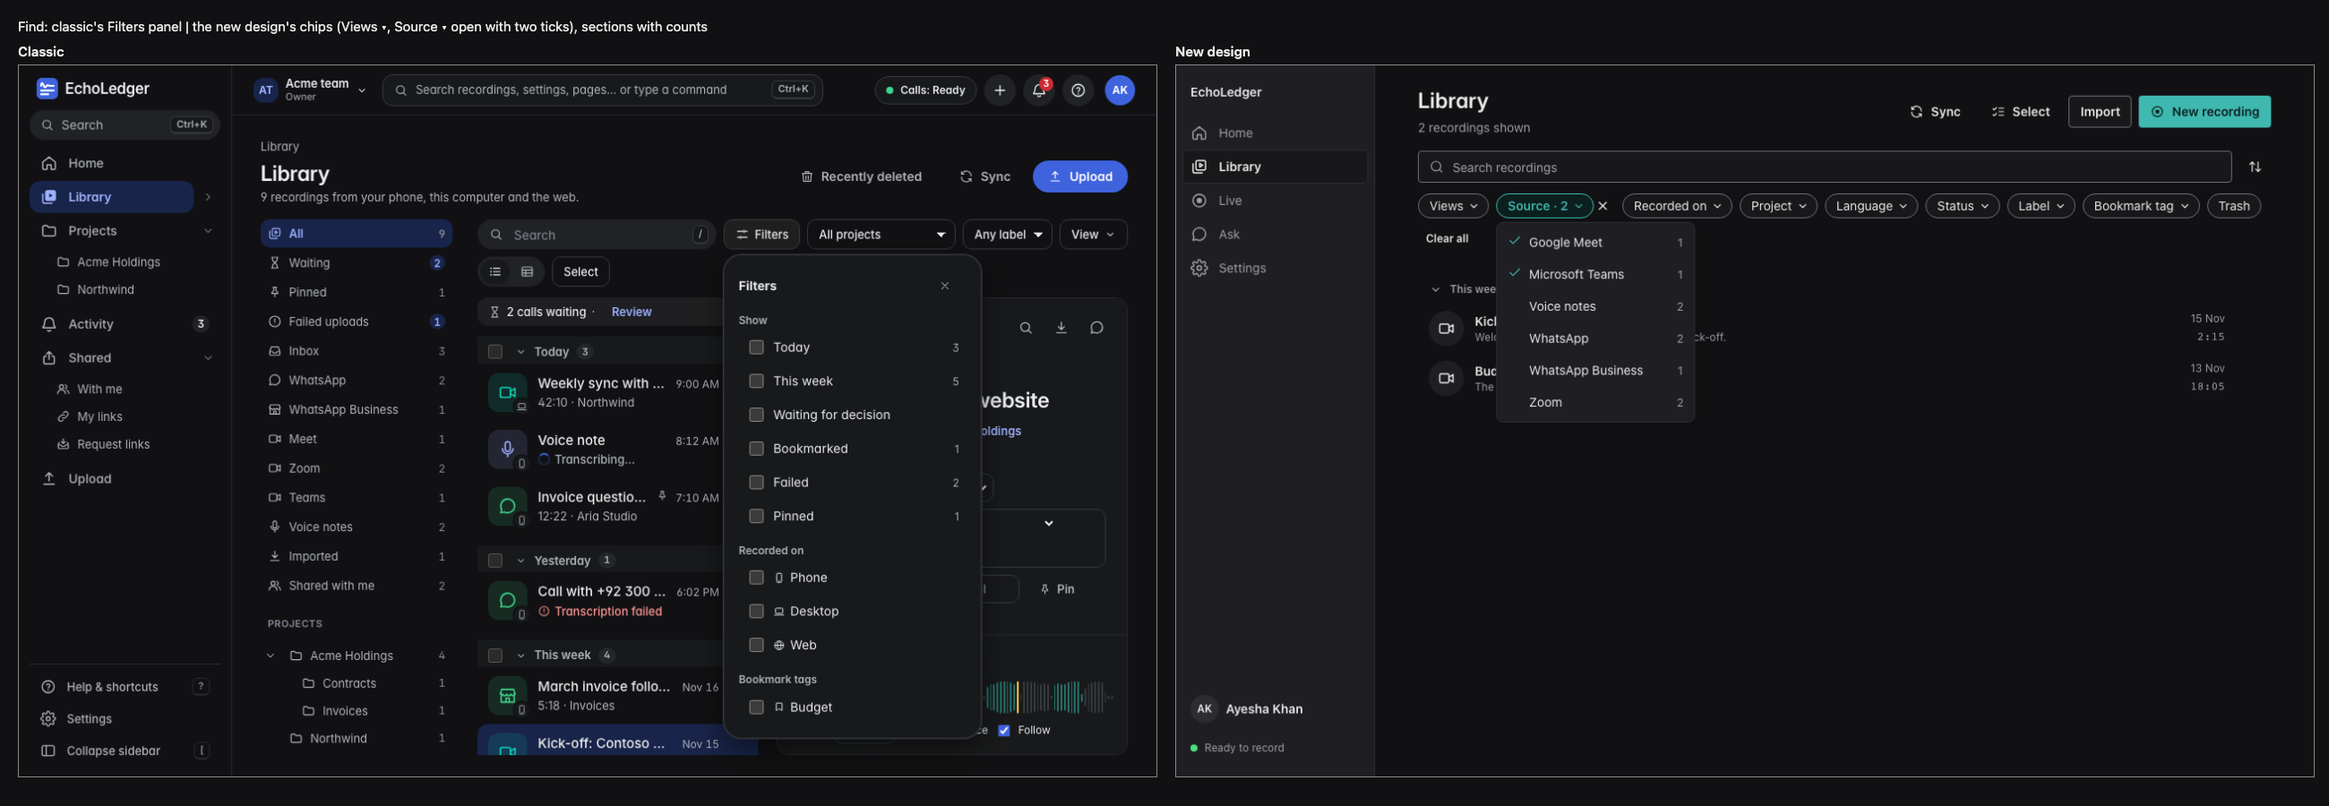
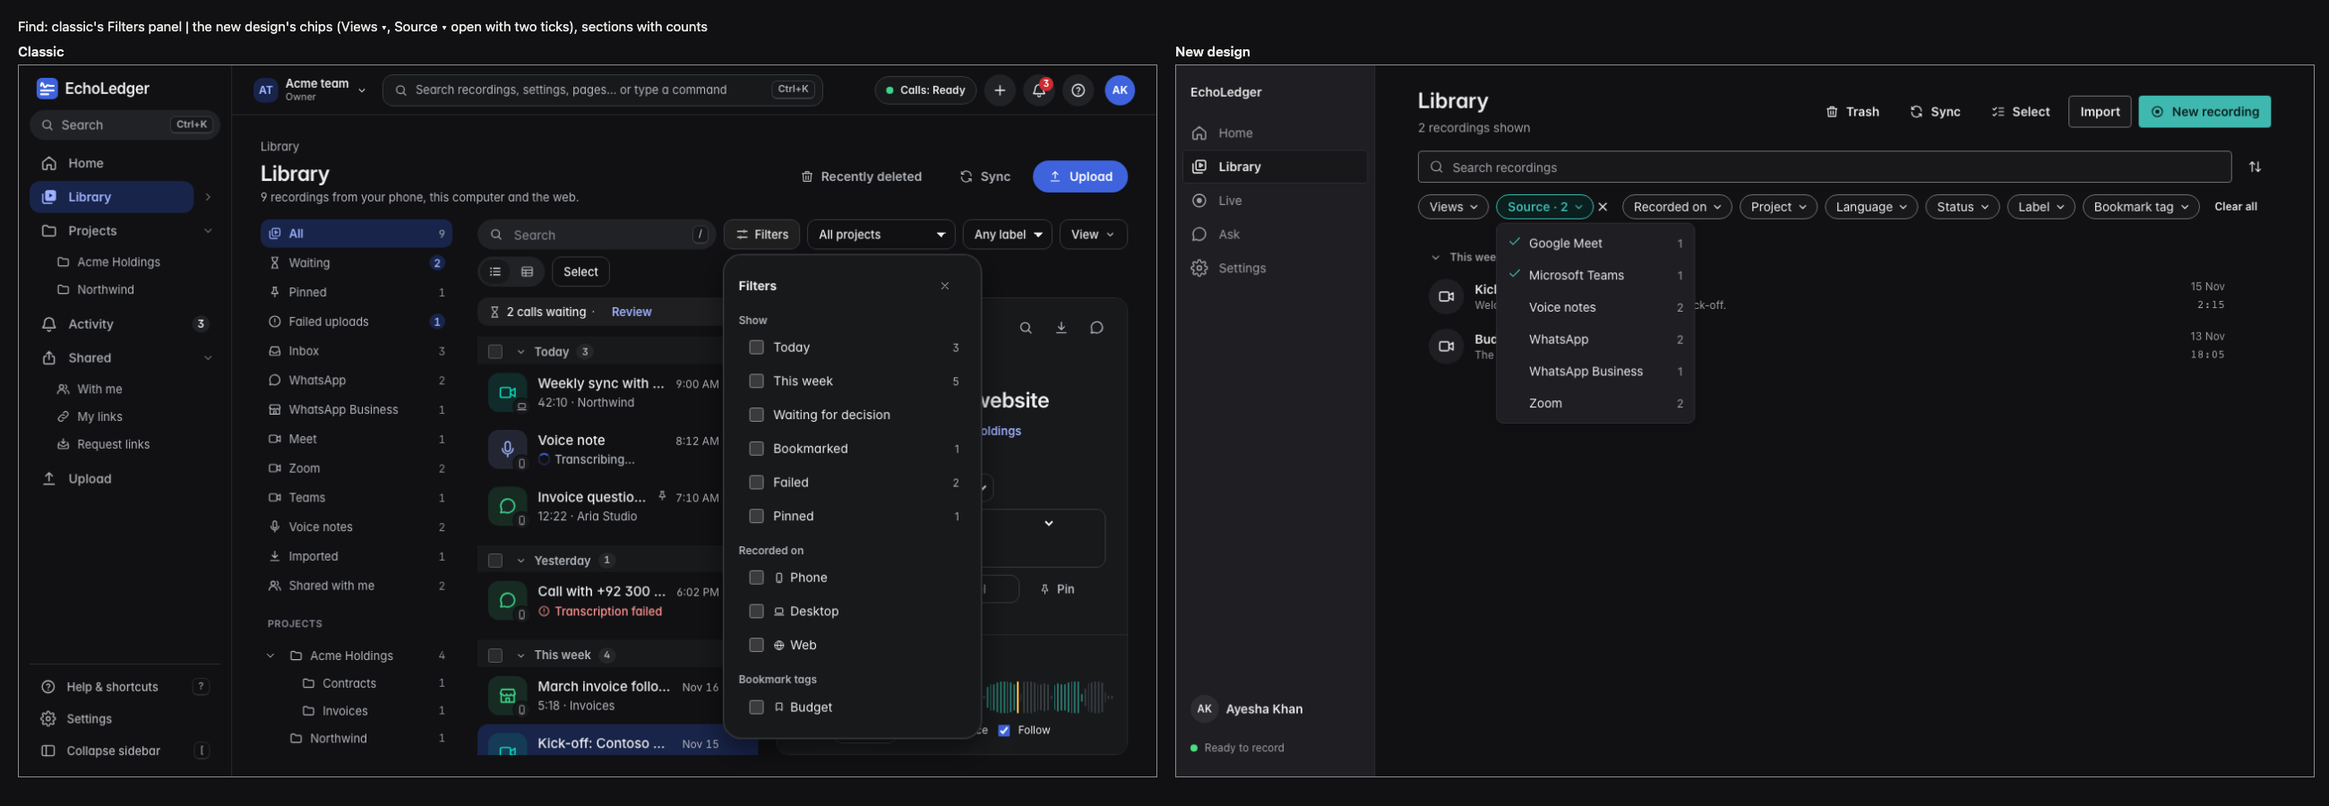
v2 Library find review fixes: selection and bulk actions reach only the rows on screen, labels match in any case, one source name, chip words from tick time, Trash in the header

diff --git a/desktop/src/v2/library/LibraryV2.tsx b/desktop/src/v2/library/LibraryV2.tsx
@@ -2,7 +2,7 @@
 // reloaded on library:updated), as WhatsApp-style rows with the saved views All, Today, Untranscribed and Trash. One
 // feedback system: the Toast, one at a time, with Undo after a delete. Selection mode (Select, a Cmd/Ctrl- or Shift-click,
 // Cmd/Ctrl+A or X) picks several; the row ⋮, a right-click and the selection bar's ⋮ are one menu (organise.tsx).
-import { useCallback, useEffect, useRef, useState, type KeyboardEvent as ReactKeyboardEvent, type MouseEvent as ReactMouseEvent } from "react";
+import { useCallback, useEffect, useMemo, useRef, useState, type KeyboardEvent as ReactKeyboardEvent, type MouseEvent as ReactMouseEvent } from "react";
 import { listen } from "@tauri-apps/api/event";
 import { api, errorMessage, type BinItem, type BulkAction, type LibraryItem } from "../../lib/ipc";
 import { formatDuration, rowDate } from "../../lib/format";
@@ -67,6 +67,8 @@ export function LibraryV2({ onImport, onRecord, openRequest, viewRequest }: Libr
     setOpenIdNow(id);
   }, []);
   const [filters, setFilters] = useState<Filters>({});
+  /** The words of each value when it was ticked, for a chip whose value this view doesn't offer. */
+  const knownValues = useRef<Record<string, string>>({});
   // Sort and group, remembered per view on this computer (classic's View menu).
   const [choice, setChoiceNow] = useState<LibraryViewChoice>(() => loadChoice("all"));
   const [collapsed, setCollapsed] = useState<ReadonlySet<string>>(new Set());
@@ -149,11 +151,16 @@ export function LibraryV2({ onImport, onRecord, openRequest, viewRequest }: Libr
     }
   };
   /** The list as drawn: the view, the filters, the search, then sorted and in sections. */
+  /**
+   * The list as drawn: the view, the filters, the search, then sorted and in sections. `rows` are the rows on screen
+   * (folded sections left out): the only ones selection, Select all, a Shift-range and Delete can reach. `matching`
+   * counts every recording that fits, folded or not.
+   */
   const listOf = (all: readonly LibraryItem[] | null) => {
-    if (!all || view === "trash") return { groups: [], rows: [] as LibraryItem[] };
+    if (!all || view === "trash") return { groups: [], rows: [] as LibraryItem[], matching: 0 };
     const inThis = applyFilters(all.filter((i) => inView(i, view as ListView)), filters);
     const groups = sections(searchItems(inThis, query), choice.group, choice.sort, opened, view !== "pinned");
-    return { groups, rows: groups.flatMap((g) => g.items) };
+    return { groups, rows: groups.filter((g) => !collapsed.has(g.key)).flatMap((g) => g.items), matching: groups.reduce((n, g) => n + g.items.length, 0) };
   };
   useEffect(() => {
     if (viewRequest) {
@@ -332,11 +339,22 @@ export function LibraryV2({ onImport, onRecord, openRequest, viewRequest }: Libr
 
   const open = openId ? items?.find((i) => i.id === openId) ?? null : null;
   const counts = items ? viewCounts(items) : null;
-  const { groups, rows: shown } = listOf(items);
+  const { groups, rows: shown, matching } = useMemo(() => listOf(items),
+    // eslint-disable-next-line react-hooks/exhaustive-deps
+    [items, view, filters, query, choice, opened, collapsed]);
   // What the filters offer: the recordings of this view before the filters, so a tick never hides its own choice.
-  const inThisView = items && view !== "trash" ? items.filter((i) => inView(i, view as ListView)) : [];
+  // Worked out once per change, for the chips' menus and their words alike.
+  const options = useMemo(() => {
+    const inThisView = items && view !== "trash" ? items.filter((i) => inView(i, view as ListView)) : [];
+    return Object.fromEntries(FILTER_KEYS.map((k) => [k, filterOptions(inThisView, k)])) as Record<FilterKey, ReturnType<typeof filterOptions>>;
+  }, [items, view]);
   const filtersOn = filterCount(filters);
-  const shownIds = shown.map((i) => i.id);
+  const shownIds = useMemo(() => shown.map((i) => i.id), [shown]);
+  // A row that leaves the screen (a filter, the search, a folded section, another view) leaves the selection too.
+  useEffect(() => {
+    const visible = new Set(shownIds);
+    setPicked((p) => ([...p].every((id) => visible.has(id)) ? p : new Set([...p].filter((id) => visible.has(id)))));
+  }, [shownIds]);
   const pickedIds = shownIds.filter((id) => picked.has(id));
   const allPicked = shownIds.length > 0 && pickedIds.length === shownIds.length;
   shownCount.current = shownIds.length;
@@ -473,9 +491,12 @@ export function LibraryV2({ onImport, onRecord, openRequest, viewRequest }: Libr
   const viewMenu: MenuItem[] = [
     ...LIST_VIEWS.map((v) => ({ label: VIEW_NAMES[v], checked: view === v, radio: true, count: counts?.[v], onPick: () => setView(v) })),
   ];
-  const filterMenu = (key: FilterKey): MenuItem[] => filterOptions(inThisView, key).map((o) => ({
+  const filterMenu = (key: FilterKey): MenuItem[] => options[key].map((o) => ({
     label: o.label, checked: (filters[key] ?? []).includes(o.value), count: o.count, keepOpen: true,
-    onPick: () => setFilters((f) => toggleFilter(f, key, o.value)),
+    onPick: () => {
+      knownValues.current[`${key}:${o.value}`] = o.label;
+      setFilters((f) => toggleFilter(f, key, o.value));
+    },
   }));
   const sortMenu: MenuItem[] = [
     ...(Object.keys(SORT_NAMES) as SortKey[]).map((k) => ({ label: SORT_NAMES[k], group: "Sort by", checked: choice.sort === k, radio: true,
@@ -490,7 +511,7 @@ export function LibraryV2({ onImport, onRecord, openRequest, viewRequest }: Libr
   };
   const subtitle = view === "trash" || !counts ? null
     : view === "all" && !filtersOn && !query ? `${recordingsWord(counts.all)} from your phone, this computer and the web.`
-      : `${recordingsWord(shown.length)} shown`;
+      : `${recordingsWord(matching)} shown`;
 
   return (
     <div className="el-root el-embedded" data-v2="library" ref={root}>
@@ -513,7 +534,7 @@ export function LibraryV2({ onImport, onRecord, openRequest, viewRequest }: Libr
               {pickedIds.length > 0 && !tooMany && (
                 <Menu label="Share or export" button={{ variant: "quiet", icon: Icons.ShareIcon, title: "Share or export" }}
                   items={[...exportMenu((format) => void exportRecordings(pickedIds, format, say)).items!.map((i) => ({ ...i, group: "Export transcripts" })),
-                    { label: "Copy for AI", icon: Icons.SparkleIcon, group: "Copy", onPick: () => void copyForAiToClipboard((items ?? []).filter((i) => picked.has(i.id)), say) }]} />
+                    { label: "Copy for AI", icon: Icons.SparkleIcon, group: "Copy", onPick: () => void copyForAiToClipboard((items ?? []).filter((i) => pickedIds.includes(i.id)), say) }]} />
               )}
               <Button variant="quiet" icon={Icons.TrashIcon} aria-label="Delete" title={`Delete (Del)`} aria-keyshortcuts="Delete" disabled={!pickedIds.length || tooMany}
                 onClick={() => deleteOrAsk(pickedIds)} />
@@ -530,6 +551,8 @@ export function LibraryV2({ onImport, onRecord, openRequest, viewRequest }: Libr
               {subtitle && <p className="el-secondary" aria-live="polite">{subtitle}</p>}
             </div>
             <div className="el-page__actions">
+              <Button variant="quiet" icon={Icons.TrashIcon} aria-pressed={view === "trash"} title="Recently deleted recordings"
+                onClick={() => setView(view === "trash" ? "all" : "trash")}>Trash</Button>
               {view !== "trash" && (
                 <Button variant="quiet" icon={Icons.RefreshIcon} loading={syncing} loadingLabel="Syncing…" onClick={() => void sync()}>Sync</Button>
               )}
@@ -558,13 +581,13 @@ export function LibraryV2({ onImport, onRecord, openRequest, viewRequest }: Libr
               <>
                 <Menu label="Views" items={viewMenu} chip={{ text: view === "all" ? "Views" : VIEW_NAMES[view as ListView], on: view !== "all" }} />
                 {FILTER_KEYS.map((key) => {
-                  const options = filterMenu(key);
+                  const menuItems = filterMenu(key);
                   const on = (filters[key]?.length ?? 0) > 0;
                   // Label and Bookmark tag only when there are some; the rest always, as classic's panel.
-                  if (!options.length && !on && (key === "label" || key === "tag" || key === "device")) return null;
+                  if (!menuItems.length && !on && (key === "label" || key === "tag" || key === "device")) return null;
                   return (
                     <span key={key} className="el-chip-group">
-                      <Menu label={FILTER_NAMES[key]} items={options} chip={{ text: chipLabel(inThisView, filters, key), on }} />
+                      <Menu label={FILTER_NAMES[key]} items={menuItems} chip={{ text: chipLabel(options[key], filters, key, knownValues.current), on }} />
                       {on && (
                         <Button variant="quiet" size="sm" className="el-chip-clear" icon={Icons.CloseIcon} aria-label={`Clear ${FILTER_NAMES[key]}`}
                           onClick={() => setFilters((f) => ({ ...f, [key]: [] }))} />
@@ -574,7 +597,6 @@ export function LibraryV2({ onImport, onRecord, openRequest, viewRequest }: Libr
                 })}
               </>
             )}
-            <Chip label="Trash" selected={view === "trash"} onToggle={() => setView(view === "trash" ? "all" : "trash")} />
           </FilterBar>
         </div>
         {view === "trash" ? (
@@ -611,7 +633,7 @@ export function LibraryV2({ onImport, onRecord, openRequest, viewRequest }: Libr
           <EmptyState icon={Icons.LibraryIcon} title="No recordings yet"
             body="Calls and meetings you record on this computer or your phone, and files you import, appear here."
             action={onImport ? <Button onClick={onImport}>Import</Button> : undefined} />
-        ) : shown.length === 0 ? (
+        ) : matching === 0 ? (
           <EmptyState icon={Icons.SearchIcon}
             title={query || filtersOn ? "No recordings match" : view === "today" ? "Nothing recorded today" : view === "untranscribed" ? "Everything is transcribed" : `Nothing in ${VIEW_NAMES[view as ListView]}`}
             body={query ? "Try another word, or clear the search to see every recording." : filtersOn ? "Take a filter off, or clear them all to see every recording."

diff --git a/desktop/src/v2/library/filters.test.tsx b/desktop/src/v2/library/filters.test.tsx
@@ -39,8 +39,8 @@ describe("the filter rules", () => {
     // Classic's status groups: a recording not transcribed yet counts as Transcribing; failed ones need you.
     expect(applyFilters(ITEMS, { status: ["Needs you"] }).map((i) => i.id)).toEqual(["d"]);
     expect(applyFilters(ITEMS, { status: ["Needs you", "Transcribing"] }).map((i) => i.id)).toEqual(["c", "d"]);
-    expect(applyFilters(ITEMS, { label: ["Q4"] }).map((i) => i.id)).toEqual(["a"]);
-    expect(applyFilters(ITEMS, { tag: ["Price"], device: ["desktop"] }).map((i) => i.id)).toEqual(["d"]);
+    expect(applyFilters(ITEMS, { label: ["q4"] }).map((i) => i.id)).toEqual(["a"]);
+    expect(applyFilters(ITEMS, { tag: ["price"], device: ["desktop"] }).map((i) => i.id)).toEqual(["d"]);
   });
 
   it("what each filter offers, with counts, the no-project kind last; a chip's words", () => {
@@ -50,11 +50,29 @@ describe("the filter rules", () => {
     expect(filterOptions(ITEMS, "project").map((o) => o.label)).toEqual(["Acme", "No project"]);
     expect(filterOptions(ITEMS, "status").map((o) => o.label)).toEqual(["Needs you", "Transcribing", "Ready"]);
     expect(filterOptions(ITEMS, "device").map((o) => [o.label, o.count])).toEqual([["Desktop", 2], ["Phone", 2]]);
+    const source = filterOptions(ITEMS, "source");
     let f = toggleFilter({}, "source", "zoom");
-    expect(chipLabel(ITEMS, f, "source")).toBe("Source: Zoom");
+    expect(chipLabel(source, f, "source")).toBe("Source: Zoom");
     f = toggleFilter(f, "source", "whatsapp");
-    expect(chipLabel(ITEMS, f, "source")).toBe("Source · 2");
-    expect(chipLabel(ITEMS, toggleFilter(f, "source", "zoom"), "source")).toBe("Source: WhatsApp");
+    expect(chipLabel(source, f, "source")).toBe("Source · 2");
+    expect(chipLabel(source, toggleFilter(f, "source", "zoom"), "source")).toBe("Source: WhatsApp");
+    // A ticked project this view doesn't offer keeps its name from when it was ticked; never its id.
+    expect(chipLabel([], { project: ["c1"] }, "project", { "project:c1": "Acme" })).toBe("Project: Acme");
+    expect(chipLabel([], { project: ["c1"] }, "project")).toBe("Project: 1 chosen");
+  });
+
+  it("labels and tags match whatever their case, offered once in the first spelling met (classic)", () => {
+    const mixed = [makeItem("x", { labels: ["Q4"] }), makeItem("y", { labels: ["q4", "VIP"] }), makeItem("z", { tags: ["price"] }), makeItem("w", { tags: ["Price"] })];
+    expect(filterOptions(mixed, "label")).toEqual([{ value: "q4", label: "Q4", count: 2 }, { value: "vip", label: "VIP", count: 1 }]);
+    expect(applyFilters(mixed, { label: ["q4"] }).map((i) => i.id)).toEqual(["x", "y"]);
+    expect(filterOptions(mixed, "tag")).toEqual([{ value: "price", label: "price", count: 2 }]);
+  });
+
+  it("Name A–Z with Urdu and mixed-script titles: Latin first whatever the case, then Urdu in its own order", () => {
+    const names = ["علی", "Bilal", "ali 2", "بلال", "Ali", "Zeeshan", "آصف", "Ahmad علی"].map((title, i) => makeItem(`n${i}`, { title, started_at: at(18, 9) }));
+    expect(sections(names, "none", "title", {}, true, NOW)[0].items.map((i) => i.title)).toEqual([
+      "Ahmad علی", "Ali", "ali 2", "Bilal", "Zeeshan", "آصف", "بلال", "علی",
+    ]);
   });
 
   it("sections: pinned first when grouped by date, then the days; any other group or sort", () => {
@@ -178,6 +196,60 @@ describe("Find in the Library", () => {
     expect(screen.getByRole("toolbar", { name: "Selected recordings" })).toHaveTextContent("Select recordings");
     fireEvent.click(screen.getByRole("button", { name: "Ali" }));
     expect((screen.getByRole("checkbox", { name: "Select all in Today" }) as HTMLInputElement).indeterminate).toBe(true);
+  });
+
+  it("a picked row a filter, the search or a folded section takes off screen leaves the selection: Delete, export and Copy for AI act on the rows shown", async () => {
+    respond("sessions_bulk", 2);
+    respond("sessions_export", "/tmp/x.zip");
+    const writeText = vi.fn(() => Promise.resolve());
+    Object.assign(navigator, { clipboard: { writeText } });
+    respond("session_detail", { playback_url: null });
+    respond("transcript_detail", { id: "t", kind: "final", provider: "x", status: "completed", language: "en", text: null, segments: [{ channel: 1, speaker: "Me", start_ms: 0, end_ms: 1000, text: "Hello" }] });
+    await show();
+    fireEvent.keyDown(document.body, { key: "a", metaKey: true });
+    expect(screen.getByRole("toolbar", { name: "Selected recordings" })).toHaveTextContent("4 selected");
+    // A filter hides Bina and Dawood: they leave the selection.
+    tick(/^Source$/, /^WhatsApp/);
+    fireEvent.keyDown(screen.getByRole("menu", { name: "Source" }), { key: "Escape" });
+    expect(screen.getByRole("toolbar", { name: "Selected recordings" })).toHaveTextContent("2 selected");
+    fireEvent.click(screen.getByRole("button", { name: "Share or export" }));
+    fireEvent.click(screen.getByRole("menuitem", { name: "Text (.txt)" }));
+    await act(flushAsync);
+    expect(callsOf("sessions_export")).toEqual([{ ids: ["c", "a"], format: "txt", view: undefined }]);
+    fireEvent.click(screen.getByRole("button", { name: "Share or export" }));
+    fireEvent.click(screen.getByRole("menuitem", { name: "Copy for AI" }));
+    await act(flushAsync);
+    expect(callsOf("transcript_detail").map((c) => c.id)).toEqual(["tr-one"]);
+    // Search narrows further: only Ali stays picked; Delete takes only Ali.
+    fireEvent.change(screen.getByRole("searchbox", { name: "Search recordings" }), { target: { value: "Ali" } });
+    expect(screen.getByRole("toolbar", { name: "Selected recordings" })).toHaveTextContent("1 selected");
+    respond("delete_session", null);
+    fireEvent.click(within(screen.getByRole("toolbar", { name: "Selected recordings" })).getByRole("button", { name: "Delete" }));
+    await act(flushAsync);
+    expect(callsOf("delete_session")).toEqual([{ id: "a" }]);
+    expect(callsOf("sessions_bulk")).toEqual([]);
+  });
+
+  it("a folded section's rows can't be reached: Cmd+A, Shift-range and the Delete key take only the rows on screen", async () => {
+    respond("sessions_bulk", 2);
+    await show();
+    fireEvent.click(screen.getByRole("button", { name: "Today · 2" }));
+    fireEvent.keyDown(document.body, { key: "a", metaKey: true });
+    expect(screen.getByRole("toolbar", { name: "Selected recordings" })).toHaveTextContent("2 selected");
+    fireEvent.keyDown(document.body, { key: "Escape" });
+    fireEvent.click(screen.getByRole("button", { name: "Chand" }), { metaKey: true });
+    fireEvent.click(screen.getByRole("button", { name: "Dawood" }), { shiftKey: true });
+    expect(screen.getByRole("toolbar", { name: "Selected recordings" })).toHaveTextContent("2 selected");
+    fireEvent.keyDown(screen.getByRole("button", { name: "Dawood" }), { key: "Delete" });
+    // Both rows on screen: deleting everything shown asks first.
+    fireEvent.click(within(screen.getByRole("alertdialog")).getByRole("button", { name: "Move to Trash" }));
+    await act(flushAsync);
+    expect(callsOf("sessions_bulk")).toEqual([{ ids: ["c", "d"], action: "delete", clientId: null, label: null }]);
+    // Folding a section with picked rows drops them from the selection.
+    fireEvent.click(screen.getByRole("button", { name: "Today · 2" }));
+    fireEvent.click(screen.getByRole("button", { name: "Ali" }), { metaKey: true });
+    fireEvent.click(screen.getByRole("button", { name: "Today · 2" }));
+    expect(screen.getByRole("toolbar", { name: "Selected recordings" })).toHaveTextContent("Select recordings");
   });
 
   it("Sync reads the list from the server again; \"/\" puts the cursor in search", async () => {

diff --git a/desktop/src/v2/library/filters.ts b/desktop/src/v2/library/filters.ts
@@ -3,8 +3,7 @@
 // the rules are tested without a window.
 import type { LibraryItem } from "../../lib/ipc";
 import { itemState, sortItems, type SortKey } from "../../lib/library";
-import { groupBy, type GroupKey, type ItemGroup } from "../../lib/libraryGroups";
-import { sourceAppLabel } from "../../lib/format";
+import { groupBy, sourceLabel, type GroupKey, type ItemGroup } from "../../lib/libraryGroups";
 
 export type FilterKey = "source" | "device" | "project" | "language" | "status" | "label" | "tag";
 export type Filters = Partial<Record<FilterKey, readonly string[]>>;
@@ -21,10 +20,8 @@ const STATUS_ORDER = ["Needs you", "Transcribing", "Ready"];
 /** A recording's values for one filter: its value ids and the words the menu shows for each. */
 function valuesOf(item: LibraryItem, key: FilterKey): { value: string; label: string }[] {
   switch (key) {
-    case "source": {
-      const app = item.source_app ?? "other";
-      return [{ value: app, label: app === "voice_note" ? "Voice notes" : item.source_app_label || (item.source_app ? sourceAppLabel(item.source_app) : "Other") }];
-    }
+    case "source":
+      return [{ value: item.source_app ?? "other", label: sourceLabel(item) }];
     case "device": {
       const d = item.source_device ?? "";
       return d ? [{ value: d, label: DEVICE_NAMES[d] ?? d }] : [];
@@ -40,10 +37,11 @@ function valuesOf(item: LibraryItem, key: FilterKey): { value: string; label: st
       const label = state === "ready" ? "Ready" : state === "processing" ? "Transcribing" : "Needs you";
       return [{ value: label, label }];
     }
+    // Labels and tags match whatever their case ("Q4" and "q4" are one), shown in the first spelling met (classic).
     case "label":
-      return (item.labels ?? []).map((l) => ({ value: l, label: l }));
+      return (item.labels ?? []).map((l) => ({ value: l.toLowerCase(), label: l }));
     case "tag":
-      return (item.tags ?? []).map((t) => ({ value: t, label: t }));
+      return (item.tags ?? []).map((t) => ({ value: t.toLowerCase(), label: t }));
   }
 }
 
@@ -82,11 +80,14 @@ export function toggleFilter(filters: Filters, key: FilterKey, value: string): F
   return { ...filters, [key]: next };
 }
 
-/** A chip's words: its name alone, the one value ticked, or the name and how many. */
-export function chipLabel(items: readonly LibraryItem[], filters: Filters, key: FilterKey): string {
+/**
+ * A chip's words: its name alone, the one value ticked, or the name and how many. A ticked value this view doesn't
+ * offer keeps the words it had when ticked (`known`), never a raw id.
+ */
+export function chipLabel(options: readonly { value: string; label: string }[], filters: Filters, key: FilterKey, known: Readonly<Record<string, string>> = {}): string {
   const on = filters[key] ?? [];
   if (on.length === 0) return FILTER_NAMES[key];
-  if (on.length === 1) return `${FILTER_NAMES[key]}: ${filterOptions(items, key).find((o) => o.value === on[0])?.label ?? on[0]}`;
+  if (on.length === 1) return `${FILTER_NAMES[key]}: ${options.find((o) => o.value === on[0])?.label ?? known[`${key}:${on[0]}`] ?? "1 chosen"}`;
   return `${FILTER_NAMES[key]} · ${on.length}`;
 }
 

diff --git a/desktop/src/lib/libraryGroups.ts b/desktop/src/lib/libraryGroups.ts
@@ -3,6 +3,13 @@
 // opened here for Recently opened. Pure parts are tested; storage is a per-computer convenience and may be missing.
 import type { LibraryItem } from "./ipc";
 import { dayGroup, itemState, type SortKey } from "./library";
+import { sourceAppLabel } from "./format";
+
+/** A recording's source as the Library names it, for Group by and the v2 Source filter alike. */
+export function sourceLabel(item: Pick<LibraryItem, "source_app" | "source_app_label">): string {
+  if (item.source_app === "voice_note") return "Voice notes";
+  return item.source_app_label || (item.source_app ? sourceAppLabel(item.source_app) : "Other");
+}
 
 export type GroupKey = "date" | "app" | "project" | "language" | "status" | "device" | "none";
 
@@ -31,7 +38,7 @@ function groupOf(item: LibraryItem, by: GroupKey, now: Date): string {
     case "date":
       return dayGroup(item.started_at, now);
     case "app":
-      return item.source_app === "voice_note" ? "Voice notes" : item.source_app_label || "Other";
+      return sourceLabel(item);
     case "project":
       return item.client?.name ?? "No project";
     case "language":
